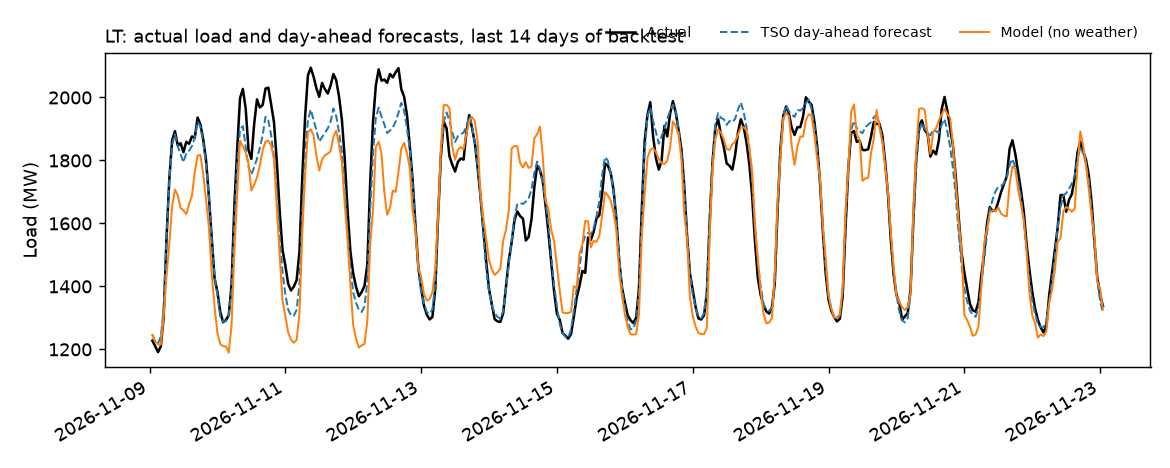
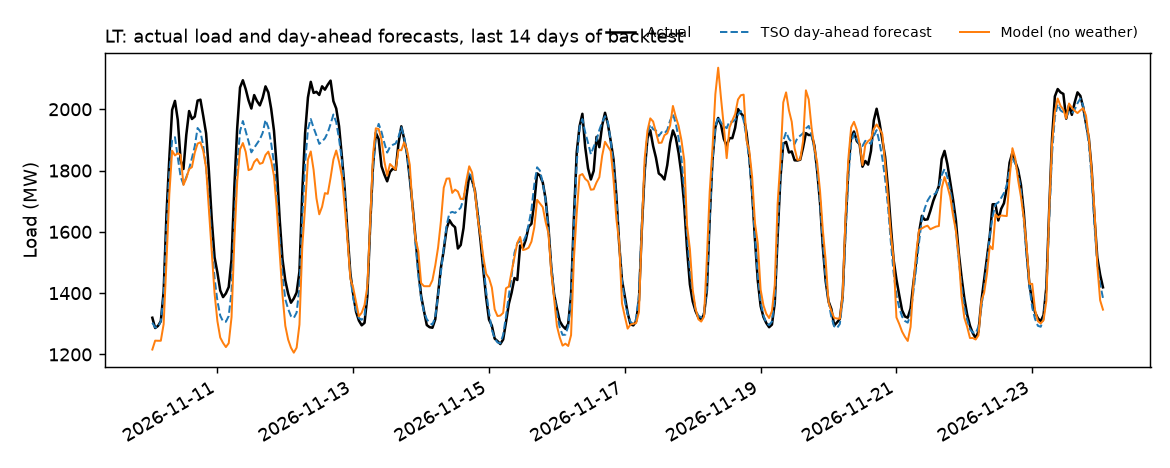
Data refresh 2026-11-24

diff --git a/reports/LT.md b/reports/LT.md
@@ -1,14 +1,14 @@
 # LT electricity report
 
-Updated 2026-11-23 21:31 UTC by the scheduled pipeline. Data: ENTSO-E Transparency Platform.
+Updated 2026-11-24 20:14 UTC by the scheduled pipeline. Data: ENTSO-E Transparency Platform.
 
 ## Day-ahead load forecast, last 8 weeks
 
 | method                      |   hours |   mae_mw |   mape_pct |   bias_mw |
 |:----------------------------|--------:|---------:|-----------:|----------:|
-| Model (no weather)          |    1344 |    69.04 |       4.39 |    -34.95 |
-| Naive (same hour last week) |    1344 |    82.39 |       5.25 |    -32.78 |
-| TSO day-ahead forecast      |    1344 |   108.03 |       7.05 |    -89.23 |
+| Model (no weather)          |    1344 |    69.15 |       4.4  |    -30.78 |
+| Naive (same hour last week) |    1344 |    82.17 |       5.22 |    -32.68 |
+| TSO day-ahead forecast      |    1344 |   104.22 |       6.8  |    -85.4  |
 
 ### Week by week
 
@@ -16,14 +16,14 @@ The table above averages over all backtest weeks. A forecast can come out ahead 
 
 | week_from   |   hours |   Model MAE (MW) |   Model MAPE (%) |   Model bias (MW) |   TSO MAE (MW) |   TSO MAPE (%) |   TSO bias (MW) |
 |:------------|--------:|-----------------:|-----------------:|------------------:|---------------:|---------------:|----------------:|
-| 2026-09-28  |     168 |             53.3 |              3.8 |              23.7 |          146.5 |           10.2 |          -143.8 |
-| 2026-10-05  |     168 |             64.2 |              4.1 |             -53.9 |          212.7 |           14   |          -209.6 |
-| 2026-10-12  |     168 |             75.1 |              4.8 |             -73.3 |          132.8 |            8.6 |          -111   |
-| 2026-10-19  |     168 |             62.6 |              4.1 |             -13.6 |          186.8 |           12.2 |          -183.3 |
-| 2026-10-26  |     168 |             48.1 |              3.2 |             -19.7 |           74.5 |            4.8 |           -44.1 |
-| 2026-11-02  |     168 |             71.9 |              4.6 |             -59.6 |           29.7 |            1.9 |            -0.6 |
-| 2026-11-09  |     168 |            132.4 |              7.8 |             -60.7 |           52.8 |            3   |           -28.5 |
-| 2026-11-16  |     168 |             44.7 |              2.7 |             -22.6 |           28.4 |            1.7 |             7   |
+| 2026-09-29  |     168 |             56.7 |              4.1 |              39.1 |          139.5 |            9.8 |          -136.7 |
+| 2026-10-06  |     168 |             69.2 |              4.4 |             -60.8 |          203.2 |           13.3 |          -199.5 |
+| 2026-10-13  |     168 |             80.2 |              5.1 |             -78.3 |          137.8 |            8.9 |          -116.6 |
+| 2026-10-20  |     168 |             60.9 |              4.1 |               1.4 |          184.2 |           12.1 |          -177.1 |
+| 2026-10-27  |     168 |             45   |              3   |             -17   |           58.4 |            3.9 |           -25.2 |
+| 2026-11-03  |     168 |             82.7 |              5.1 |             -78.3 |           27.8 |            1.7 |            -3.8 |
+| 2026-11-10  |     168 |            111.2 |              6.5 |             -62.4 |           54   |            3   |           -26.6 |
+| 2026-11-17  |     168 |             47.3 |              2.8 |              10   |           28.8 |            1.7 |             2.4 |
 
 ![Forecasts](LT_forecast.png)
 
@@ -37,18 +37,18 @@ The table above averages over all backtest weeks. A forecast can come out ahead 
 | 2026-11-20   |         40.9 |         2001.6 |               196.4 |                      0 |                     2   |
 | 2026-11-21   |         38.1 |         1864   |                52.7 |                      0 |                     1.9 |
 | 2026-11-22   |         37.6 |         1859.5 |               138.9 |                      0 |                     1.2 |
-| 2026-11-23   |         42.8 |         2065.9 |               232.1 |                      0 |                     1.5 |
+| 2026-11-23   |         42.8 |         2065.9 |               232.1 |                      0 |                     1.4 |
 
 ![Daily](LT_daily.png)
 
 ## Data quality
 
-Generated 2026-11-23 21:31 UTC
+Generated 2026-11-24 20:14 UTC
 
 | Zone | Check | Result | Detail |
 |---|---|---|---|
-| LT | load is fresh | ✅ pass | latest actual load 2026-11-23 21:00 UTC (1 h old) |
+| LT | load is fresh | ✅ pass | latest actual load 2026-11-24 19:00 UTC (1 h old) |
 | LT | no gaps in actual load | ✅ pass | 0 missing hours, longest gap 0 h (last 30 days) |
-| LT | load within 100..5000 | ✅ pass | 0 of 720 hours outside range |
-| LT | price within -500..4000 | ✅ pass | 0 of 745 hours outside range |
+| LT | load within 100..5000 | ✅ pass | 0 of 719 hours outside range |
+| LT | price within -500..4000 | ✅ pass | 0 of 746 hours outside range |
 | LT | complete hours | ⚠ warn | 2 hours built from incomplete sub-hourly data |
